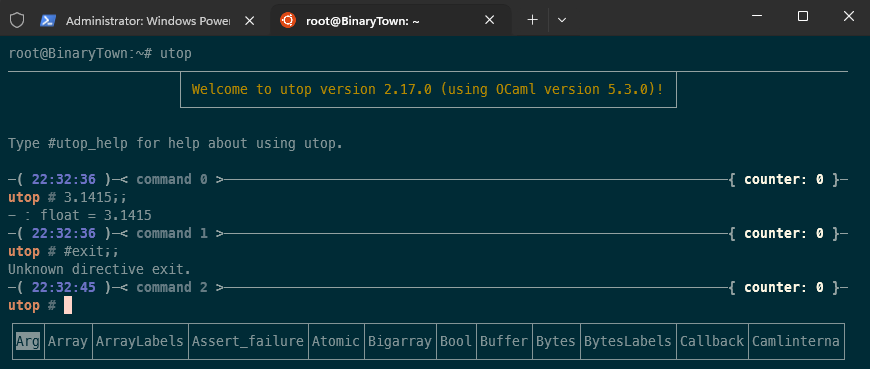
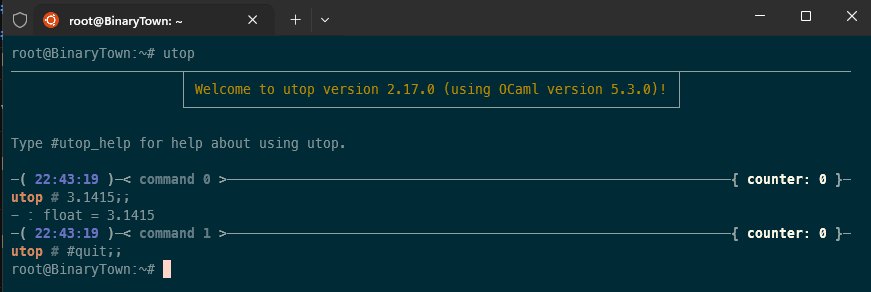
Fix the invalid utop syntax

diff --git a/README.md b/README.md
@@ -97,7 +97,7 @@ Eğer her şey yolunda giderse ubuntu ortamında **utop** ile doğrudan **ocaml*
 ```ocaml
 # 3.1415;;
 - : float = 3.1415
-#exit;;
+# #quit;;
 ```
 
 ![WSL Hello World](./images/ocaml_16.png)
